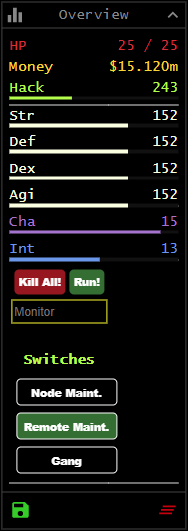
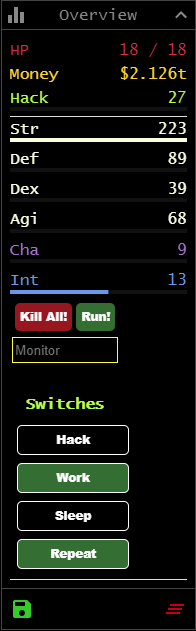
fix: wrong path in scripts feat: removed spoilery things

Changed region(s): [[0.0, 0.0, 1.0, 1.0]]

diff --git a/src/ui-example/components/Dashboard/ToggleSection.tsx b/src/ui-example/components/Dashboard/ToggleSection.tsx
@@ -6,10 +6,10 @@ const React = cheatyWindow.React;
 const { useState } = React;
 
 export const ToggleSection = ({ ns }: { ns: NS }) => {
-    const [nodeMaintActive, setNodeMaintActive] = useState(false);
-    const [remoteMaintActive, setRemoteMaintActive] = useState(false);
-
-    const [gangActive, setGangActive] = useState(false);
+    const [hackActive, setHackActive] = useState(false);
+    const [workActive, setWorkActive] = useState(true);
+    const [sleepActive, setSleepActive] = useState(false);
+    const [repeatActive, setRepeatActive] = useState(true);
 
     return (
         <div
@@ -25,25 +25,32 @@ export const ToggleSection = ({ ns }: { ns: NS }) => {
         >
             <h4 style={{ marginBottom: "5px" }}>Switches</h4>
             <Switch
-                title="Node Maint."
+                title="Hack"
                 onClickHandler={() => {
-                    setNodeMaintActive(!nodeMaintActive);
+                    setHackActive(!hackActive);
                 }}
-                active={nodeMaintActive}
+                active={hackActive}
             />
             <Switch
-                title="Remote Maint."
+                title="Work"
                 onClickHandler={() => {
-                    setRemoteMaintActive(!remoteMaintActive);
+                    setWorkActive(!workActive);
                 }}
-                active={remoteMaintActive}
+                active={workActive}
             />
             <Switch
-                title="Gang"
+                title="Sleep"
                 onClickHandler={() => {
-                    setGangActive(!gangActive);
+                    setSleepActive(!sleepActive);
                 }}
-                active={gangActive}
+                active={sleepActive}
+            />
+            <Switch
+                title="Sleep"
+                onClickHandler={() => {
+                    setRepeatActive(!repeatActive);
+                }}
+                active={repeatActive}
             />
         </div>
     );

diff --git a/src/ui-example/ui.tsx b/src/ui-example/ui.tsx
@@ -1,4 +1,8 @@
+// always import as if you are using absolute path in Bitburner, relative paths don't work.
+// tsconfig.json file is modified to support this kind of import.
 import { Dashboard } from "/ui-example/components/Dashboard/Dashboard";
+
+// except for type files, which won't be in game
 import { NS } from "../typings/Bitburner";
 
 // accessing global window or document in bitburner costs 25GB each normally. this saves RAM for early UI convenience, sorry devs pls don't fix.
@@ -15,9 +19,9 @@ export async function main(ns: NS) {
         <React.StrictMode>
             <Dashboard ns={ns} />
         </React.StrictMode>,
-        cheatyDocument.getElementById("overview-extra-hook-0") // there are 3 empty elements provided for players to include their own ui under overview window.
+        cheatyDocument.getElementById("overview-extra-hook-0") // there are 3 empty elements provided for players to include their own ui under overview window named (.overview-extra-hook-0, ...-1 ,...-2).
     );
     while (ns.scriptRunning("/ui-example/ui.js", "home")) {
-        await ns.asleep(1000); // script must be running in bitburner for ns methods to function
+        await ns.asleep(1000); // script must be running in bitburner for ns methods to function inside our component
     }
 }

diff --git a/src/ui-example/components/Dashboard/Dashboard.tsx b/src/ui-example/components/Dashboard/Dashboard.tsx
@@ -34,8 +34,16 @@ export const Dashboard = ({ ns }: IDashboardProps) => {
                     flexDirection: "row",
                 }}
             >
-                <Button bg="red" title="Kill All!" onButtonClick={killAllClicked} />
-                <Button bg="green" title="Run!" onButtonClick={runClicked} />
+                <Button
+                    bg="red"
+                    title="Kill All!"
+                    onButtonClick={killAllClicked}
+                />
+                <Button
+                    bg="green"
+                    title="Run!"
+                    onButtonClick={runClicked}
+                />
             </div>
             <MonitorInput ns={ns} />
             <ToggleSection ns={ns} />
